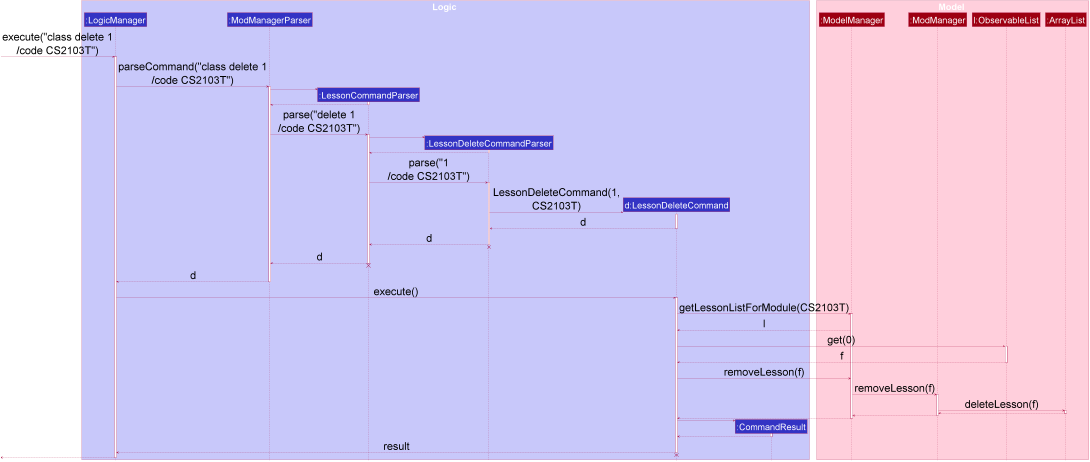
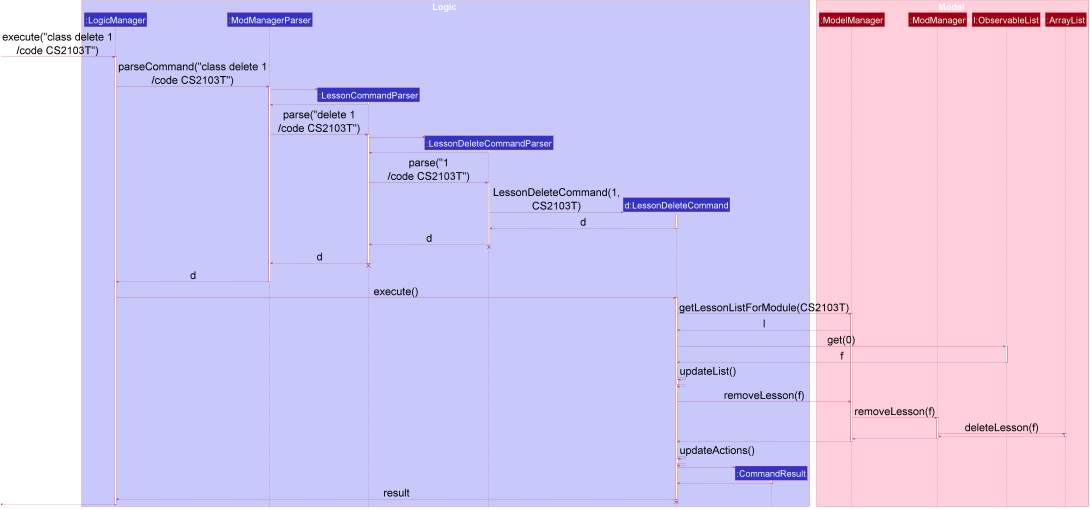
update uml diagrams and ug

diff --git a/src/main/java/seedu/address/logic/commands/lesson/LessonCommand.java b/src/main/java/seedu/address/logic/commands/lesson/LessonCommand.java
@@ -7,11 +7,19 @@ import static seedu.address.logic.parser.CliSyntax.PREFIX_TYPE;
 import static seedu.address.logic.parser.CliSyntax.PREFIX_VENUE;
 
 import java.util.List;
+import java.util.Optional;
 
 import seedu.address.logic.commands.Command;
 import seedu.address.logic.commands.CommandResult;
 import seedu.address.logic.commands.exceptions.CommandException;
 import seedu.address.model.Model;
+import seedu.address.model.facilitator.ModuleCodesContainKeywordPredicate;
+import seedu.address.model.lesson.Lesson;
+import seedu.address.model.module.Module;
+import seedu.address.model.module.ModuleCode;
+import seedu.address.model.util.action.DoableAction;
+import seedu.address.model.util.action.DoableActionType;
+import seedu.address.model.util.action.LessonAction;
 
 
 /**
@@ -45,4 +53,27 @@ public abstract class LessonCommand extends Command {
 
     @Override
     public abstract CommandResult execute(Model model) throws CommandException;
+
+    /**
+     * Updates the list for facilitators and tasks for viewing.
+     */
+    public static void updateList(Module module, Model model) {
+        model.updateModule(Optional.of(module));
+        ModuleCode moduleCode = module.getModuleCode();
+        model.updateFacilitatorListForModule(new ModuleCodesContainKeywordPredicate(moduleCode.value));
+        model.updateTaskListForModule(x -> x.getModuleCode().equals(moduleCode));
+    }
+
+    /**
+     * Updates the list of action for undo and redo commands.
+     */
+    public static void updateAction(Lesson lesson, Lesson editedLesson, DoableActionType type, Model model) {
+        if (editedLesson == null) {
+            LessonAction lessonAction = new LessonAction(lesson, type);
+            model.addAction(lessonAction);
+        } else {
+            LessonAction lessonAction = new LessonAction(lesson, editedLesson, type);
+            model.addAction(lessonAction);
+        }
+    }
 }

diff --git a/src/main/java/seedu/address/logic/commands/lesson/LessonAddCommand.java b/src/main/java/seedu/address/logic/commands/lesson/LessonAddCommand.java
@@ -15,6 +15,7 @@ import seedu.address.model.Model;
 import seedu.address.model.facilitator.ModuleCodesContainKeywordPredicate;
 import seedu.address.model.lesson.Lesson;
 import seedu.address.model.module.Module;
+import seedu.address.model.module.ModuleCode;
 import seedu.address.model.util.action.DoableActionType;
 import seedu.address.model.util.action.LessonAction;
 
@@ -53,7 +54,8 @@ public class LessonAddCommand extends LessonCommand {
             throw new CommandException(MESSAGE_DUPLICATE_LESSON);
         }
 
-        Optional<Module> module = model.findModule(toAdd.getModuleCode());
+        ModuleCode toAddModCode = toAdd.getModuleCode();
+        Optional<Module> module = model.findModule(toAddModCode);
         if (module.isEmpty()) {
             throw new CommandException(MESSAGE_INVALID_MODULE_CODE);
         }
@@ -62,13 +64,10 @@ public class LessonAddCommand extends LessonCommand {
             throw new CommandException(MESSAGE_INVALID_TIME_RANGE);
         }
 
-        model.updateModule(module);
-        model.updateFacilitatorListForModule(new ModuleCodesContainKeywordPredicate(toAdd.getModuleCode().value));
-        model.updateTaskListForModule(x -> x.getModuleCode().equals(toAdd.getModuleCode()));
-
+        updateList(module.get(), model);
         model.addLesson(toAdd);
-        LessonAction addLessonAction = new LessonAction(toAdd, DoableActionType.ADD);
-        model.addAction(addLessonAction);
+        updateAction(toAdd, null, DoableActionType.ADD, model);
+
         return new CommandResult(String.format(MESSAGE_SUCCESS, toAdd), CommandType.LESSON);
     }
 

diff --git a/src/main/java/seedu/address/model/ModelManager.java b/src/main/java/seedu/address/model/ModelManager.java
@@ -267,18 +267,12 @@ public class ModelManager implements Model {
     public void setLesson(Lesson target, Lesson edited) {
         requireAllNonNull(target, edited);
         modManager.setLesson(target, edited);
-        filteredModules.setPredicate(x -> x.getModuleCode().equals(edited.getModuleCode()));
-        module = Optional.ofNullable(filteredModules.get(0));
-        filteredModules.setPredicate(x -> true);
     }
 
     @Override
     public void removeLesson(Lesson lesson) {
         requireNonNull(lesson);
         modManager.removeLesson(lesson);
-        filteredModules.setPredicate(x -> x.getModuleCode().equals(lesson.getModuleCode()));
-        module = Optional.ofNullable(filteredModules.get(0));
-        filteredModules.setPredicate(x -> true);
     }
 
     @Override
@@ -290,18 +284,12 @@ public class ModelManager implements Model {
     @Override
     public Lesson findNextLesson() {
         LessonList lessons = modManager.getLessons();
-        Lesson lesson = lessons.findNextLesson();
-        if (lesson != null) {
-            filteredModules.setPredicate(x -> x.getModuleCode().equals(lesson.getModuleCode()));
-            module = Optional.ofNullable(filteredModules.get(0));
-            filteredModules.setPredicate(x -> true);
-        }
-        return lesson;
+        return lessons.findNextLesson();
     }
 
     @Override
     public List<Lesson> findLessonByDay(DayOfWeek day) {
-        return modManager.getLessons().findLessonsByDay(day);
+        return modManager.findLessonsByDay(day);
     }
 
     @Override

diff --git a/src/main/java/seedu/address/logic/commands/lesson/LessonDeleteCommand.java b/src/main/java/seedu/address/logic/commands/lesson/LessonDeleteCommand.java
@@ -9,6 +9,7 @@ import seedu.address.logic.commands.CommandResult;
 import seedu.address.logic.commands.CommandType;
 import seedu.address.logic.commands.exceptions.CommandException;
 import seedu.address.model.Model;
+import seedu.address.model.facilitator.ModuleCodesContainKeywordPredicate;
 import seedu.address.model.lesson.Lesson;
 import seedu.address.model.module.ModuleCode;
 import seedu.address.model.util.action.DoableActionType;
@@ -55,10 +56,11 @@ public class LessonDeleteCommand extends LessonCommand {
             throw new CommandException(MESSAGE_INVALID_LESSON_DISPLAYED_INDEX);
         }
 
+        updateList(model.findModule(moduleCode).get(), model);
         Lesson lessonToDelete = lessons.get(targetIndex.getZeroBased());
         model.removeLesson(lessonToDelete);
-        LessonAction deleteLessonAction = new LessonAction(lessonToDelete, DoableActionType.DELETE);
-        model.addAction(deleteLessonAction);
+        updateAction(lessonToDelete, null, DoableActionType.DELETE, model);
+
         return new CommandResult(String.format(MESSAGE_DELETE_LESSON_SUCCESS, lessonToDelete),
                 CommandType.LESSON);
 

diff --git a/src/main/java/seedu/address/logic/commands/lesson/LessonEditCommand.java b/src/main/java/seedu/address/logic/commands/lesson/LessonEditCommand.java
@@ -95,13 +95,8 @@ public class LessonEditCommand extends LessonCommand {
         }
 
         model.setLesson(lessonToEdit, editedLesson);
-        LessonAction editLessonAction = new LessonAction(lessonToEdit, editedLesson, DoableActionType.EDIT);
-        model.addAction(editLessonAction);
-
-        model.updateModule(model.findModule(editedLesson.getModuleCode()));
-        model.updateFacilitatorListForModule(
-                new ModuleCodesContainKeywordPredicate(editedLesson.getModuleCode().value));
-        model.updateTaskListForModule(x -> x.getModuleCode().equals(editedLesson.getModuleCode()));
+        updateAction(lessonToEdit, editedLesson, DoableActionType.EDIT, model);
+        updateList(model.findModule(editedLesson.getModuleCode()).get(), model);
 
         return new CommandResult(String.format(MESSAGE_EDIT_LESSON_SUCCESS, editedLesson), CommandType.LESSON);
     }

diff --git a/src/main/java/seedu/address/logic/commands/lesson/LessonFindCommand.java b/src/main/java/seedu/address/logic/commands/lesson/LessonFindCommand.java
@@ -42,10 +42,7 @@ public class LessonFindCommand extends LessonCommand {
                 result = "No more lessons this week";
             } else {
                 result = "Next lesson:\n" + lesson.toString();
-                model.updateModule(model.findModule(lesson.getModuleCode()));
-                model.updateFacilitatorListForModule(
-                        new ModuleCodesContainKeywordPredicate(lesson.getModuleCode().value));
-                model.updateTaskListForModule(x -> x.getModuleCode().equals(lesson.getModuleCode()));
+                updateList(model.findModule(lesson.getModuleCode()).get(), model);
             }
         } else {
             StringBuilder sb = new StringBuilder();

diff --git a/src/main/java/seedu/address/model/ModManager.java b/src/main/java/seedu/address/model/ModManager.java
@@ -344,7 +344,7 @@ public class ModManager implements ReadOnlyModManager {
     /**
      * Finds lessons that is happening on a particular day.
      */
-    public List<Lesson> findLessonByDay(DayOfWeek day) {
+    public List<Lesson> findLessonsByDay(DayOfWeek day) {
         return lessons.findLessonsByDay(day);
     }
 
